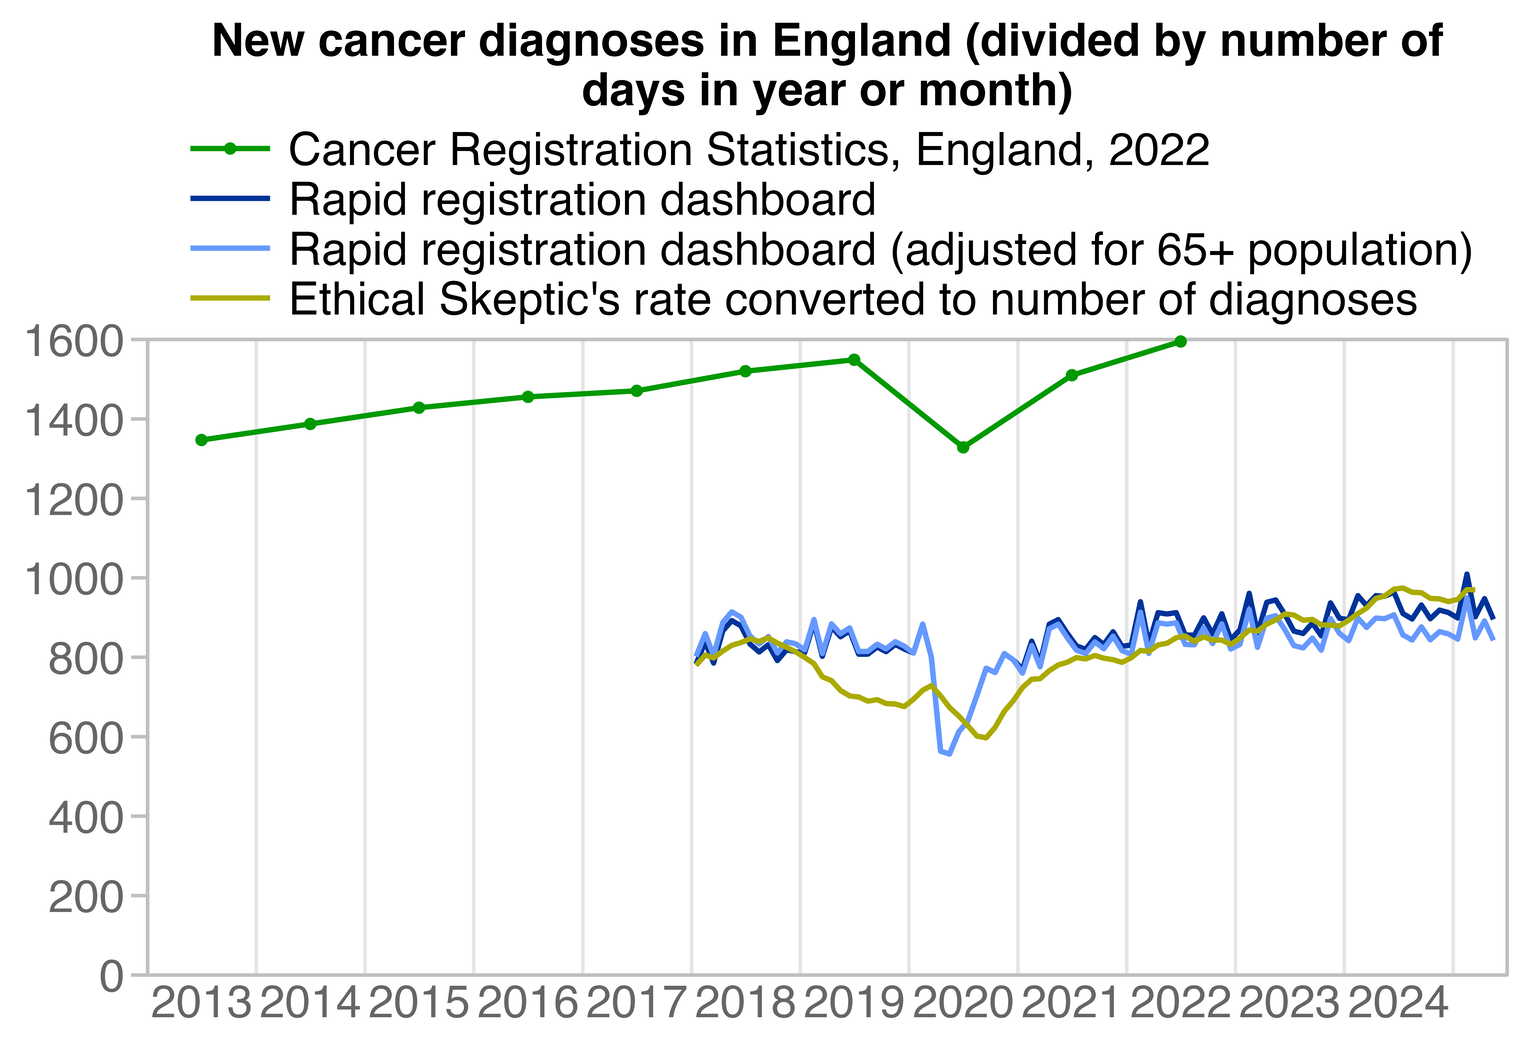
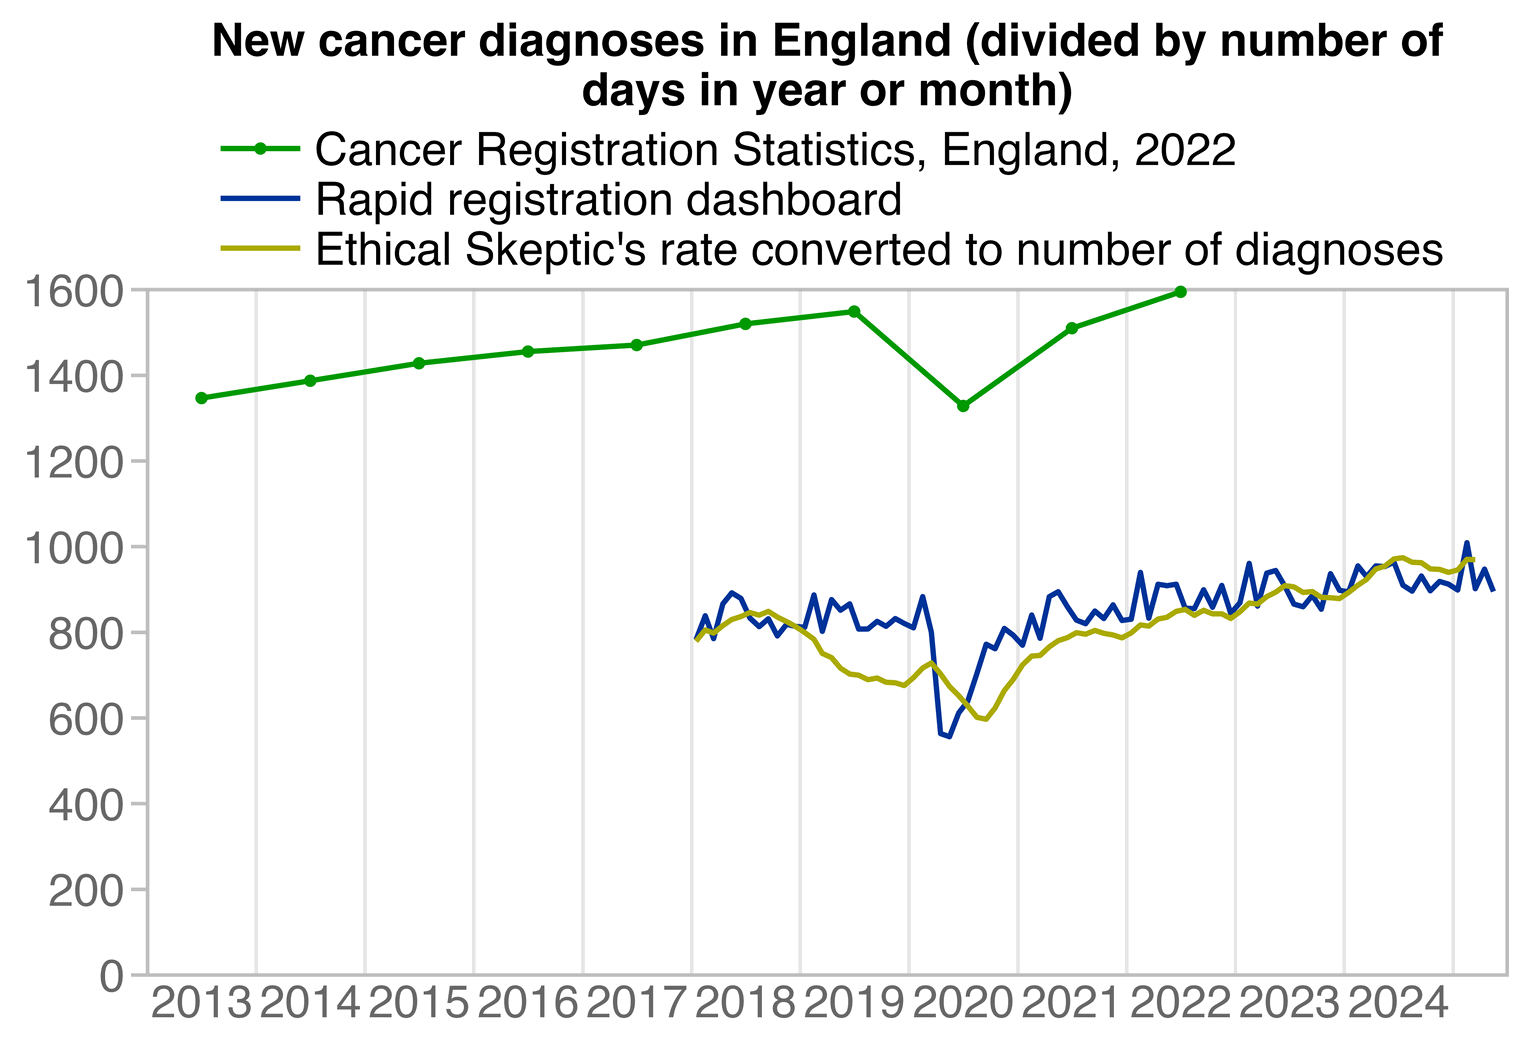
a

diff --git a/ethical4.html b/ethical4.html
@@ -86,7 +86,7 @@ end of 2019, but in the dataset he cited as his source, the incidence in
 same level in 2018 and 2019:
 [<a href=https://researchbriefings.files.parliament.uk/documents/SN06887/SN06887.pdf>https://researchbriefings.files.parliament.uk/documents/SN06887/SN06887.pdf</a>]</p>
 <div>
-<img src=i/ethical-englandincidence-2.png width=500>
+<img src=i/ethical-englandincidence-2.png width=550>
 </div>
 <p>I used WebPlotDigitizer to digitize the data in Ethical Skeptic's
 plot. The points in his plot have irregular horizontal spacing, so I had
@@ -292,85 +292,6 @@ theme(axis.text=element_text(size=9,color=&quot;black&quot;,lineheight=.8),
   plot.title=element_text(size=11,hjust=.5))
 ggsave(&quot;1.png&quot;,width=6,height=3,dpi=300*4)</pre>
 </div>
-<p>In the next plot I didn't take a moving average of the monthly data,
-so it shows more clearly how there was a sudden drop in the number of
-diagnoses between March and April of 2020. From the light blue line
-where I adjusted the number of new diagnoses for the population size of
-ages 65 and above, you can see that the increase between 2021 and 2024
-is now less steep than in the dark blue line (even though this is of
-course not the proper way to do age adjustment):</p>
-<div>
-<img src=i/ethical-englandincidence-8.png width=570>
-</div>
-<div class="spoiler">
-<button>
-Show code
-</button>
-<pre>pop=CJ(year=2018:2024)
-pop$o65=c(10082761,10243221,10332210,10469044,10630852,10787479,10981092)
-
-rapid=CJ(year=2018:2025,month=1:12)[!(year==2025&amp;month&gt;5)]
-rapid$cases=c(24265,23485,24346,25994,27661,26373,25833,25212,24953,24540,24564,25231,25169,24844,24873,26294,26401,25994,25037,25043,24770,25236,24966,25444,25128,25621,24809,16910,17246,18362,19806,21826,23169,23614,24274,24592,23870,23534,24370,26499,27741,25785,25686,25425,25493,25801,25927,25658,25752,26316,25826,27370,28176,27371,26549,26517,26984,26615,27285,26179,26944,26909,26700,28151,29276,27220,26845,26652,26579,26473,28109,27843,27733,27699,28826,28654,29560,28914,28213,27783,27948,27807,27565,28289,27863,28261,27960,28428,27754) # adjusted for number of working days
-p1=rapid[,.(x=as.Date(paste(year,month,16,sep=&quot;-&quot;)),y=cases)]
-p1$z=&quot;Rapid registration dashboard&quot;
-
-pop=CJ(year=2018:2024)
-pop$o65=c(10082761,10243221,10332210,10469044,10630852,10787479,10981092)
-p2=copy(p1)
-p2[,y:=y/pop$o65[match(pmin(2024,year(x)),pop$year)]*pop[year==2020,o65]]
-p2$z=&quot;Rapid registration dashboard (adjusted for 65+ population)&quot;
-
-es=CJ(year=2018:2025,month=1:12)[1:87]
-es$rate=c(239.6,235.7,237.5,242.7,248.6,250.4,253.2,255.5,256.8,254.2,249.6,247.5,239.3,230.8,222.3,218.2,212.1,206.9,206.1,206.4,206.4,204.6,203.1,202.3,206.1,210.5,215.1,206.4,198.9,191.5,184.5,178.6,176.3,185.1,196.1,204.9,212.1,214.6,216.2,220.8,226.2,227.0,230.3,233.1,234.4,233.7,231.3,230.6,230.6,232.1,232.6,236.0,238.5,241.1,242.4,242.4,244.5,243.4,242.1,240.3,242.1,243.9,244.5,248.1,252.4,255.3,254.5,255.0,254.2,251.7,250.1,250.9,253.5,255.5,260.7,266.1,269.4,272.7,273.5,273.5,271.7,269.1,267.3,266.8,268.4,270.9,272.2)
-espop=c(55924500,56230100,56326000,56554900,57112500,57690300,57690300,57690300) # from Statista
-espop=espop*c(.1803,.1822,.1834,.1851,.186,.1862,.1873,.1873) # proportion aged 65 and above from ONS website
-p3=es[,.(x=as.Date(paste(year,month,16,sep=&quot;-&quot;)),y=rate*espop[factor(year)]/1e5)]
-p3$z=&quot;Ethical Skeptic&#39;s rate converted to number of diagnoses&quot;
-
-p=rbind(p1,p2,p3)[,z:=factor(z,unique(z))]
-color=c(hsv(22/36,c(1,.6),c(.6,1)),&quot;#aaaa00&quot;)
-
-xstart=as.Date(&quot;2018-1-1&quot;);xend=as.Date(&quot;2025-7-1&quot;);xbreak=seq(xstart+182,as.Date(&quot;2025-1-1&quot;),&quot;year&quot;)
-ybreak=pretty(c(0,p$y));ystart=0;yend=max(p$y*1.03)
-
-yearly=p[,.(y=mean(y)),.(year=year(x),z)][year%in%c(2018,2019,2021,2024)]
-yearly[,x:=as.Date(paste0(year,&quot;-1-1&quot;))]
-
-anno=str_wrap(&quot;The light blue line was divided by the population size of ages 65+ during the current year and multiplied with the population size of ages 65+ in 2020.&quot;,36)
-
-ggplot(p)+
-geom_vline(xintercept=seq(xstart,xend,&quot;year&quot;),color=&quot;gray90&quot;,linewidth=.4)+
-annotate(&quot;rect&quot;,xmin=xstart,xmax=xend,ymin=ystart,ymax=yend,linewidth=.4,lineend=&quot;square&quot;,linejoin=&quot;mitre&quot;,fill=NA,color=&quot;gray75&quot;)+
-geom_line(aes(x,y,color=z),linewidth=.6)+
-annotate(&quot;text&quot;,x=xstart+400,y=yend*.5,label=anno,hjust=0,vjust=1,lineheight=.8,size=3.87,color=color[2])+
-geom_segment(data=yearly,aes(x,y,xend=x+365,yend=y,color=z),linewidth=.6,linetype=&quot;42&quot;)+
-labs(x=NULL,y=NULL,title=&quot;Monthly cancer diagnoses in England rapid registration data&quot;)+
-scale_x_continuous(limits=c(xstart,xend),breaks=xbreak,labels=year(xbreak))+
-scale_y_continuous(limits=c(ystart,yend),breaks=ybreak,labels=\(x)ifelse(x&gt;=1e3,paste0(x/1e3,&quot;k&quot;),x))+
-scale_color_manual(values=color)+
-coord_cartesian(clip=&quot;off&quot;,expand=F)+
-guides(color=guide_legend(ncol=1,byrow=F))+
-theme(axis.text=element_text(size=11,color=&quot;gray40&quot;),
-  axis.text.y=element_text(margin=margin(,1.5)),
-  axis.ticks=element_line(linewidth=.4,color=&quot;gray75&quot;),
-  axis.ticks.length=unit(0,&quot;pt&quot;),
-  axis.ticks.length.y=unit(4,&quot;pt&quot;),
-  legend.background=element_blank(),
-  legend.box.spacing=unit(0,&quot;pt&quot;),
-  legend.direction=&quot;vertical&quot;,
-  legend.key=element_blank(),
-  legend.key.height=unit(12,&quot;pt&quot;),
-  legend.key.width=unit(24,&quot;pt&quot;),
-  legend.margin=margin(-2,,4),
-  legend.position=&quot;top&quot;,
-  legend.spacing.x=unit(2,&quot;pt&quot;),
-  legend.spacing.y=unit(0,&quot;pt&quot;),
-  legend.text=element_text(size=11),
-  legend.title=element_blank(),
-  panel.background=element_blank(),
-  plot.title=element_text(size=11,hjust=.5,face=2,margin=margin(,,4)))
-ggsave(&quot;1.png&quot;,width=5.1,height=3,dpi=300*4)</pre>
-</div>
 <p>In the next plot I calculated age-standardize incidence rates by
 downloading age-stratified from here under <span
 class="quote">"Demographic factors &gt; Downloads &gt; Download time
@@ -382,8 +303,8 @@ population estimates by age from Nomis.
 [<a href=https://www.nomisweb.co.uk/datasets/pestsyoala>https://www.nomisweb.co.uk/datasets/pestsyoala</a>]
 The age-standardized incidence increased by about 6% between 2021 and
 2024, but it's partially because the number of diagnoses was lower than
-usual in early 2021, and there was only a 3% increase between 2022 and
-2024:</p>
+usual in early 2021, and if you compare 2024 to 2022 instead of 2021,
+then the incidence increased by only about 3%:</p>
 <div>
 <img src=i/ethical-englandincidence-9.png width=570>
 </div>
@@ -521,7 +442,7 @@ t=t[stage_at_diagnosis==&quot;All stages&quot;&amp;imd_quintile==&quot;All quint
 t=t[hormone_receptor%in%c(&quot;&quot;,&quot;All&quot;)&amp;hormone_receptor_status%in%c(&quot;&quot;,&quot;All&quot;)]
 
 t=t[ndrs_detailed_group%like%&quot;^All|ALL&quot;]
-print(t[,.(diagnoses=sum(count)),.(year=diagnosisyear)],r=F)
+t[,.(diagnoses=sum(count)),.(year=diagnosisyear)]
 # year diagnoses
 # 2013    491633
 # 2014    506390
@@ -557,19 +478,15 @@ rapid$cases=c(24265,23485,24346,25994,27661,26373,25833,25212,24953,24540,24564,
 p2=rapid[,.(x=as.Date(paste(year,month,16,sep=&quot;-&quot;)),y=cases)][,y:=y/days_in_month(x)]
 p2$z=&quot;Rapid registration dashboard&quot;
 
-p3=copy(p2)
-p3[,y:=y/pop$o65[match(pmin(2024,year(x)),pop$year)]*pop[year==2020,o65]]
-p3$z=&quot;Rapid registration dashboard (adjusted for 65+ population)&quot;
-
 es=CJ(year=2018:2025,month=1:12)[1:87]
 es$rate=c(239.6,235.7,237.5,242.7,248.6,250.4,253.2,255.5,256.8,254.2,249.6,247.5,239.3,230.8,222.3,218.2,212.1,206.9,206.1,206.4,206.4,204.6,203.1,202.3,206.1,210.5,215.1,206.4,198.9,191.5,184.5,178.6,176.3,185.1,196.1,204.9,212.1,214.6,216.2,220.8,226.2,227.0,230.3,233.1,234.4,233.7,231.3,230.6,230.6,232.1,232.6,236.0,238.5,241.1,242.4,242.4,244.5,243.4,242.1,240.3,242.1,243.9,244.5,248.1,252.4,255.3,254.5,255.0,254.2,251.7,250.1,250.9,253.5,255.5,260.7,266.1,269.4,272.7,273.5,273.5,271.7,269.1,267.3,266.8,268.4,270.9,272.2)
 espop=c(55924500,56230100,56326000,56554900,57112500,57690300,57690300,57690300) # from Statista
 espop=espop*c(.1803,.1822,.1834,.1851,.186,.1862,.1873,.1873) # proportion aged 65 and above from ONS website
-p4=es[,.(x=as.Date(paste(year,month,16,sep=&quot;-&quot;)),y=rate*espop[factor(year)]/1e5)]
-p4[,y:=y/ma(days_in_month(x),5,0)]
-p4$z=&quot;Ethical Skeptic&#39;s rate converted to number of diagnoses&quot;
+p3=es[,.(x=as.Date(paste(year,month,16,sep=&quot;-&quot;)),y=rate*espop[factor(year)]/1e5)]
+p3[,y:=y/ma(days_in_month(x),5,0)]
+p3$z=&quot;Ethical Skeptic&#39;s rate converted to number of diagnoses&quot;
 
-p=rbind(p1,p2,p3,p4)[,z:=factor(z,unique(z))]
+p=rbind(p1,p2,p3)[,z:=factor(z,unique(z))]
 
 xstart=as.Date(&quot;2013-1-1&quot;);xend=as.Date(&quot;2025-7-1&quot;);xbreak=seq(xstart+182,as.Date(&quot;2025-1-1&quot;),&quot;year&quot;)
 ybreak=pretty(c(0,p$y),7);ystart=0;yend=max(ybreak)
@@ -580,9 +497,9 @@ annotate(&quot;rect&quot;,xmin=xstart,xmax=xend,ymin=ystart,ymax=yend,linewidth=
 geom_point(aes(x,y,color=z,alpha=z),size=1.4,stroke=0)+
 geom_line(aes(x,y,color=z),linewidth=.6)+
 labs(x=NULL,y=NULL,title=&quot;New cancer diagnoses in England (divided by number of\ndays in year or month)&quot;)+
-scale_x_continuous(limits=c(xstart,xend),breaks=xbreak,labels=year(xbreak))+
+scale_x_date(limits=c(xstart,xend),breaks=xbreak,labels=year(xbreak))+
 scale_y_continuous(limits=c(ystart,yend),breaks=ybreak)+
-scale_color_manual(values=c(hsv(1/3,1,.6),hsv(22/36,c(1,.6),c(.6,1)),&quot;#aaaa00&quot;))+
+scale_color_manual(values=c(hsv(1/3,1,.6),hsv(22/36,1,.6),&quot;#aaaa00&quot;))+
 scale_alpha_manual(values=c(1,0,0,0))+
 coord_cartesian(clip=&quot;off&quot;,expand=F)+
 guides(color=guide_legend(ncol=1,byrow=F))+
@@ -601,12 +518,12 @@ theme(axis.text=element_text(size=11,color=&quot;gray40&quot;),
   legend.position=&quot;top&quot;,
   legend.spacing.x=unit(2,&quot;pt&quot;),
   legend.spacing.y=unit(0,&quot;pt&quot;),
-  legend.text=element_text(size=11),
+  legend.text=element_text(size=11,margin=margin(,,,1)),
   legend.title=element_blank(),
   panel.background=element_blank(),
   plot.subtitle=element_text(size=11,hjust=.5,margin=margin(,,4)),
   plot.title=element_text(size=11,hjust=.5,face=2,margin=margin(,,4)))
-ggsave(&quot;1.png&quot;,width=5.3,height=3.6,dpi=300*4)</pre>
+ggsave(&quot;1.png&quot;,width=5.1,height=3.5,dpi=300*4)</pre>
 </div>
 <p>The website of the NHS says: <span class="quote">"The Rapid Cancer
 Registration Data contains proxy tumour registrations and some
